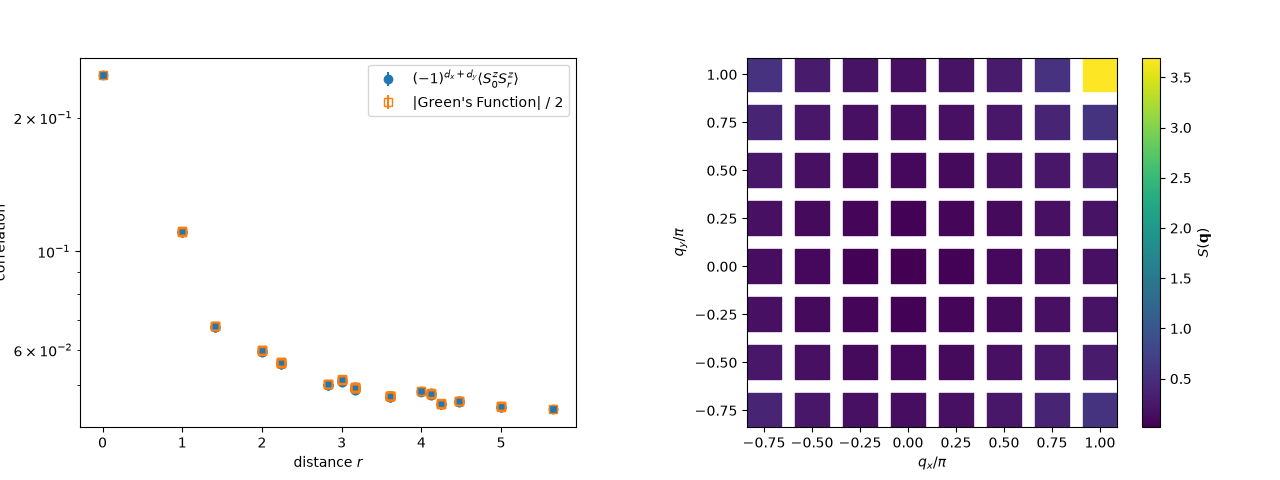
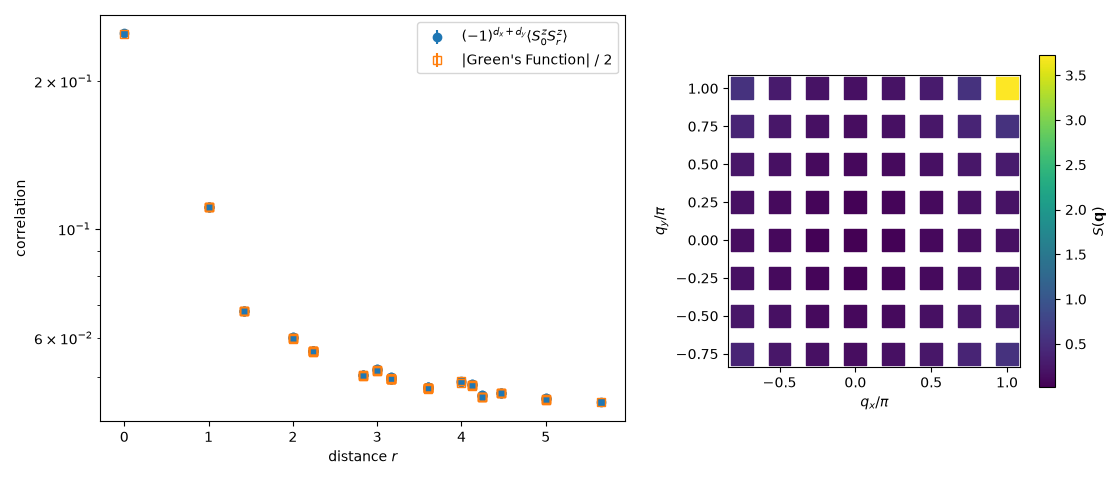
Fix cut-off axis label and shrink the S(q) plot in Example 2

diff --git a/content/ja/documentation/api/examples.md b/content/ja/documentation/api/examples.md
@@ -207,18 +207,20 @@ plt.yscale('log')
 plt.xlabel('distance $r$')
 plt.ylabel('correlation')
 plt.legend()
+plt.tight_layout()
 
-plt.figure()
+plt.figure(figsize=(4.8, 4))
 qx, qy = sq.x[:, 0], sq.x[:, 1]
-plt.scatter(qx / np.pi, qy / np.pi, c=S, s=600, marker='s', cmap='viridis')
+plt.scatter(qx / np.pi, qy / np.pi, c=S, s=250, marker='s', cmap='viridis')
 plt.colorbar(label=r'$S(\mathbf{q})$')
 plt.xlabel(r'$q_x/\pi$')
 plt.ylabel(r'$q_y/\pi$')
 plt.gca().set_aspect('equal')
+plt.tight_layout()
 plt.show()
 ```
 
-構造因子は $\mathbf{q} = (\pi, \pi)$ で最大となり、その値は約 $3.70 \pm 0.01$ です。これは反強磁性（Néel）相関の特徴です。
+構造因子は $\mathbf{q} = (\pi, \pi)$ で最大となり、その値は約 3.7 です。これは反強磁性（Néel）相関の特徴です。
 相関関数の符号は距離とともに交互に変わり、スピン回転対称性から要求されるとおり $|\langle S^+_0 S^-_r\rangle| = 2|\langle S^z_0 S^z_r\rangle|$ が成り立ちます。
 
 ![](/figs/api_examples_qmc.png)

diff --git a/content/en/documentation/api/examples.md b/content/en/documentation/api/examples.md
@@ -207,18 +207,20 @@ plt.yscale('log')
 plt.xlabel('distance $r$')
 plt.ylabel('correlation')
 plt.legend()
+plt.tight_layout()
 
-plt.figure()
+plt.figure(figsize=(4.8, 4))
 qx, qy = sq.x[:, 0], sq.x[:, 1]
-plt.scatter(qx / np.pi, qy / np.pi, c=S, s=600, marker='s', cmap='viridis')
+plt.scatter(qx / np.pi, qy / np.pi, c=S, s=250, marker='s', cmap='viridis')
 plt.colorbar(label=r'$S(\mathbf{q})$')
 plt.xlabel(r'$q_x/\pi$')
 plt.ylabel(r'$q_y/\pi$')
 plt.gca().set_aspect('equal')
+plt.tight_layout()
 plt.show()
 ```
 
-The structure factor is largest at $\mathbf{q} = (\pi, \pi)$, about $3.70 \pm 0.01$, the signature of antiferromagnetic (Néel) correlations.
+The structure factor is largest at $\mathbf{q} = (\pi, \pi)$, about 3.7, the signature of antiferromagnetic (Néel) correlations.
 The correlations alternate in sign with distance, and $|\langle S^+_0 S^-_r\rangle| = 2|\langle S^z_0 S^z_r\rangle|$ as required by spin-rotation symmetry:
 
 ![](/figs/api_examples_qmc.png)

diff --git a/content/zh-cn/documentation/api/examples.md b/content/zh-cn/documentation/api/examples.md
@@ -207,18 +207,20 @@ plt.yscale('log')
 plt.xlabel('distance $r$')
 plt.ylabel('correlation')
 plt.legend()
+plt.tight_layout()
 
-plt.figure()
+plt.figure(figsize=(4.8, 4))
 qx, qy = sq.x[:, 0], sq.x[:, 1]
-plt.scatter(qx / np.pi, qy / np.pi, c=S, s=600, marker='s', cmap='viridis')
+plt.scatter(qx / np.pi, qy / np.pi, c=S, s=250, marker='s', cmap='viridis')
 plt.colorbar(label=r'$S(\mathbf{q})$')
 plt.xlabel(r'$q_x/\pi$')
 plt.ylabel(r'$q_y/\pi$')
 plt.gca().set_aspect('equal')
+plt.tight_layout()
 plt.show()
 ```
 
-结构因子在 $\mathbf{q} = (\pi, \pi)$ 处最大，约为 $3.70 \pm 0.01$，这是反铁磁（Néel）关联的特征。
+结构因子在 $\mathbf{q} = (\pi, \pi)$ 处最大，约为 3.7，这是反铁磁（Néel）关联的特征。
 关联函数的符号随距离交替变化，并且如自旋旋转对称性所要求的那样，$|\langle S^+_0 S^-_r\rangle| = 2|\langle S^z_0 S^z_r\rangle|$：
 
 ![](/figs/api_examples_qmc.png)
